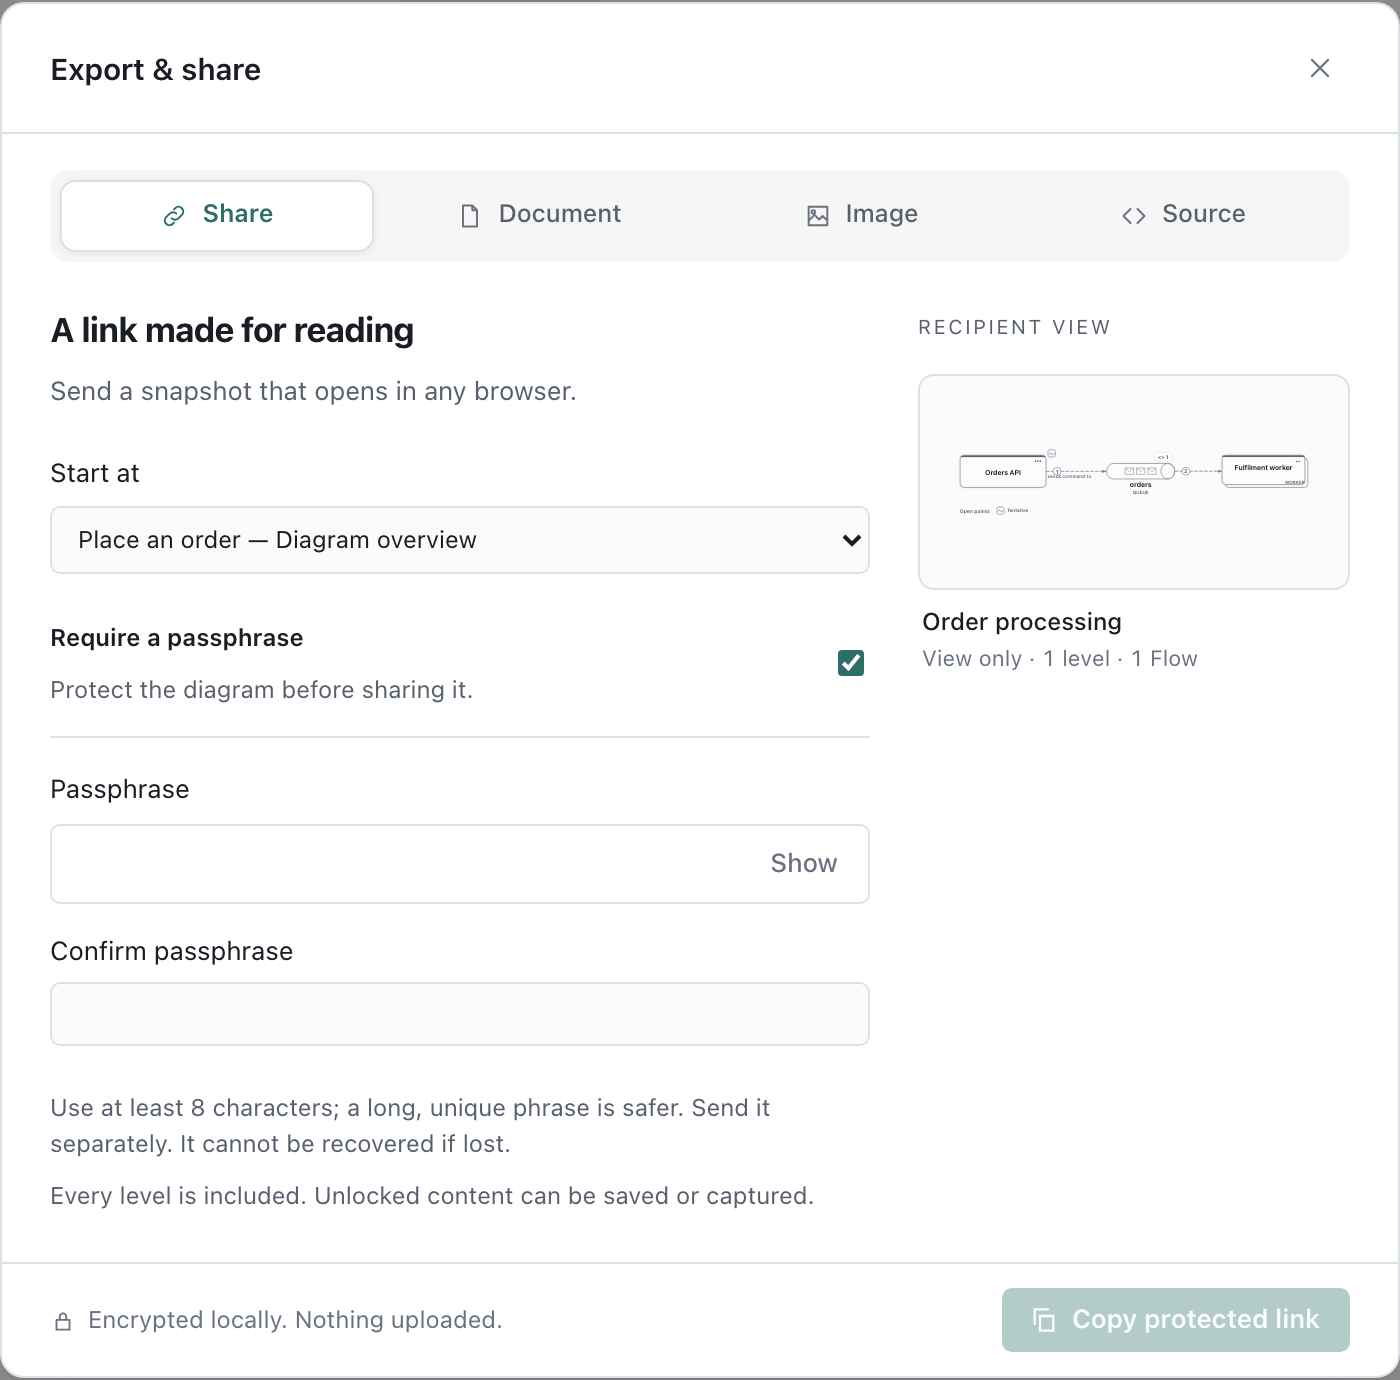
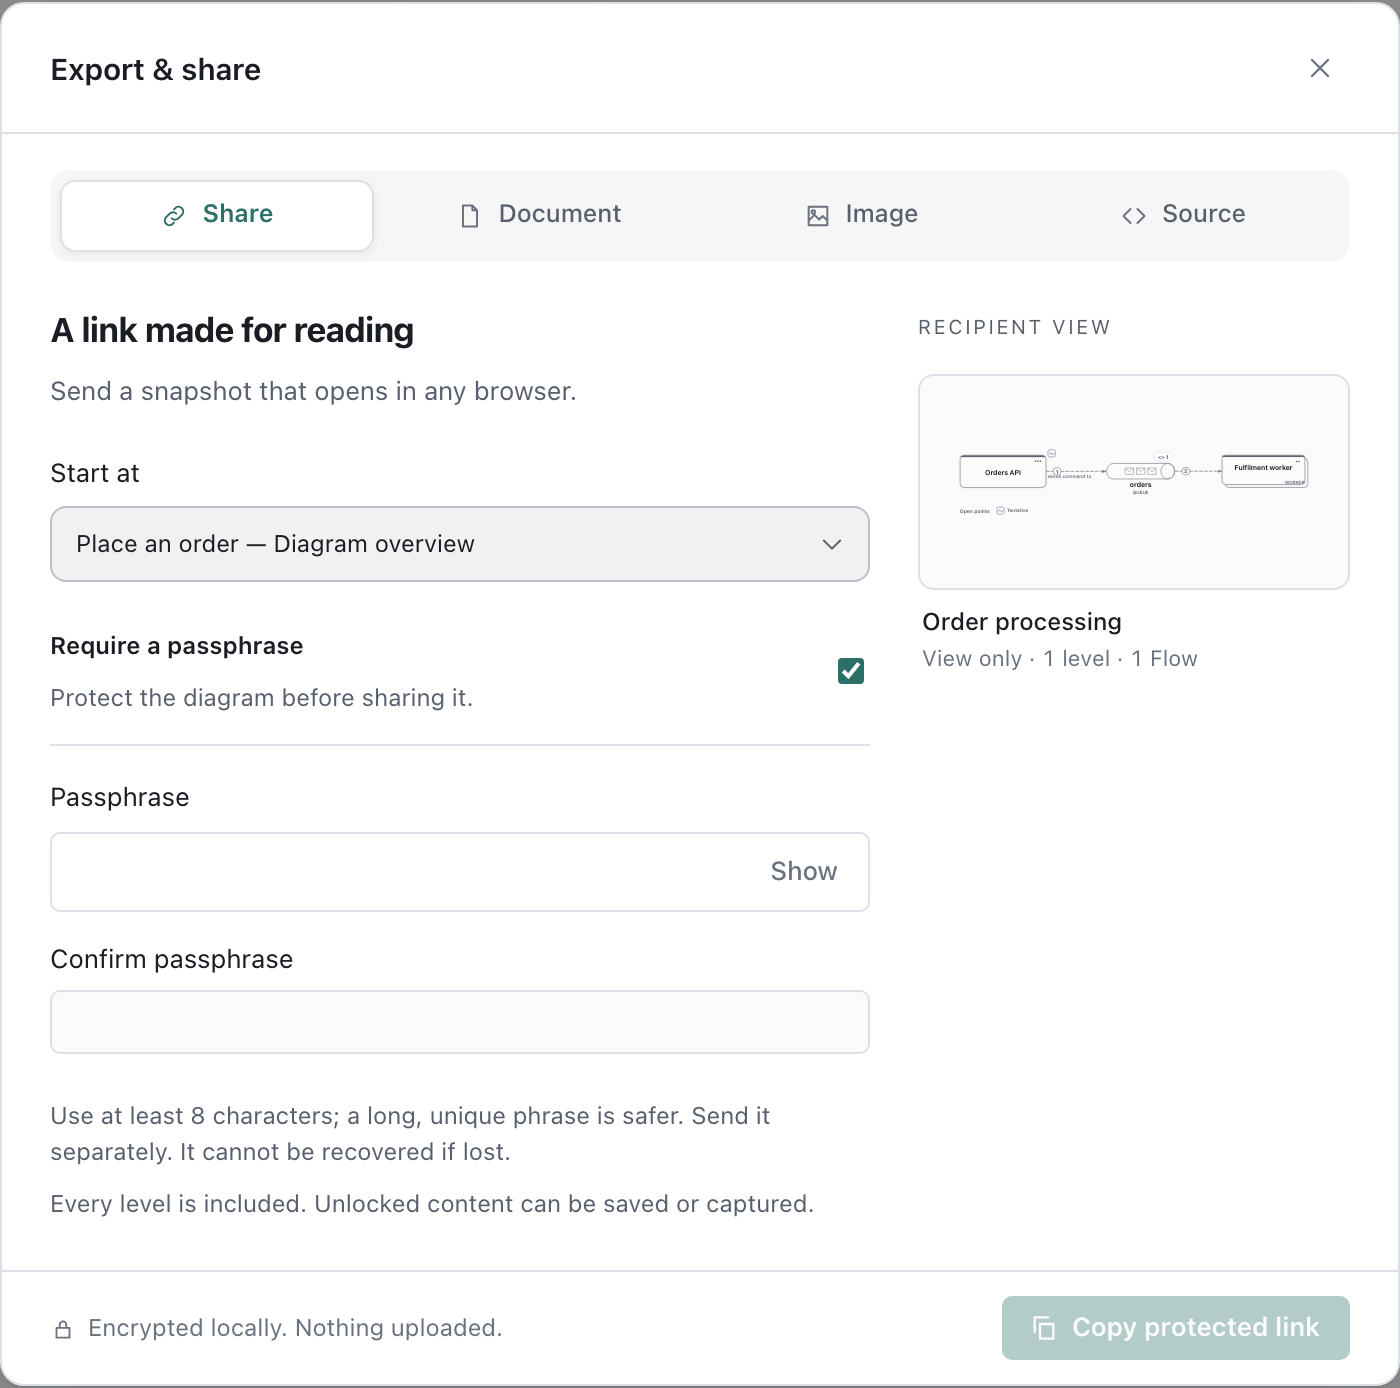
fix: polish share start dropdown

diff --git a/src/styles/share.css b/src/styles/share.css
@@ -152,6 +152,21 @@
 .dc-share-panel .dc-export-panel-description { font-size: 13px; margin: 0 0 21px; }
 .dc-share-panel .dc-field { margin-bottom: 14px; }
 .dc-share-panel select, .dc-reader-step-menu select { width: 100%; min-width: 0; min-height: 34px; padding: 7px 9px; border: 1px solid var(--dc-border); border-radius: var(--dc-radius-sm); background: var(--dc-canvas); color: var(--dc-text); font: inherit; font-size: 12px; }
+.dc-share-start-select { position: relative; display: flex; min-width: 0; }
+.dc-share-start-select select {
+  appearance: none;
+  height: 38px;
+  padding: 0 36px 0 12px;
+  border-radius: var(--dc-radius);
+  background: var(--dc-surface-raised);
+  text-overflow: ellipsis;
+  cursor: pointer;
+}
+.dc-share-start-select > svg { position: absolute; right: 12px; top: 50%; transform: translateY(-50%); color: var(--dc-text-muted); pointer-events: none; }
+.dc-share-start-select select:hover:not(:disabled) { border-color: var(--dc-border-strong); background: var(--dc-surface-hover); }
+.dc-share-start-select select:focus-visible { outline: 2px solid var(--dc-selection); outline-offset: 2px; }
+.dc-share-start-select:has(select:disabled) { opacity: 0.45; }
+.dc-share-start-select select:disabled { cursor: default; }
 .dc-share-protection { display: flex; align-items: center; justify-content: space-between; gap: 16px; padding: 0 0 14px; margin: 9px 0 16px; border-bottom: 1px solid var(--dc-border); }
 .dc-share-protection strong { display: block; font-size: 12px; font-weight: 600; margin-bottom: 5px; }
 .dc-share-protection small { font-size: 12px; color: var(--dc-text-muted); }

diff --git a/src/ui/Editor/ExportSharePanel.tsx b/src/ui/Editor/ExportSharePanel.tsx
@@ -1,6 +1,7 @@
 import { useId, useState } from 'react';
 import type { ShareStart } from '../../share/link';
 import { Button } from '../common/Button';
+import { Icon } from '../common/Icon';
 
 export interface ShareChoice { key: string; label: string; start?: ShareStart }
 
@@ -20,7 +21,13 @@ export function ExportSharePanel({
     <div className="dc-export-panel dc-share-panel">
       <h3>A link made for reading</h3>
       <p className="dc-export-panel-description">Send a snapshot that opens in any browser.</p>
-      <label className="dc-field"><span>Start at</span><select value={choice} onChange={(event) => onChoice(event.target.value)} disabled={busy}>{choices.map((entry) => <option key={entry.key} value={entry.key}>{entry.label}</option>)}</select></label>
+      <label className="dc-field">
+        <span>Start at</span>
+        <span className="dc-share-start-select">
+          <select value={choice} onChange={(event) => onChoice(event.target.value)} disabled={busy}>{choices.map((entry) => <option key={entry.key} value={entry.key}>{entry.label}</option>)}</select>
+          <Icon name="down" size={14} />
+        </span>
+      </label>
       <label className="dc-share-protection"><span><strong>Require a passphrase</strong><small>Protect the diagram before sharing it.</small></span><input type="checkbox" checked={protectedLink} disabled={busy} onChange={(event) => onProtectedLink(event.target.checked)} /></label>
       {protectedLink && <>
         <label className="dc-field" htmlFor={`${id}-passphrase`}>Passphrase</label>

diff --git a/CHANGELOG.md b/CHANGELOG.md
@@ -8,6 +8,12 @@ The retired VS Code extension has [its own changelog](https://github.com/acltabo
 
 ## [Unreleased]
 
+### Shared
+
+#### Fixed
+
+- The share dialog's Start at dropdown uses a consistently styled field with clearer spacing and a single chevron.
+
 ## [1.16.0] - 2026-10-25
 
 Draw together. Think with your own agent.
